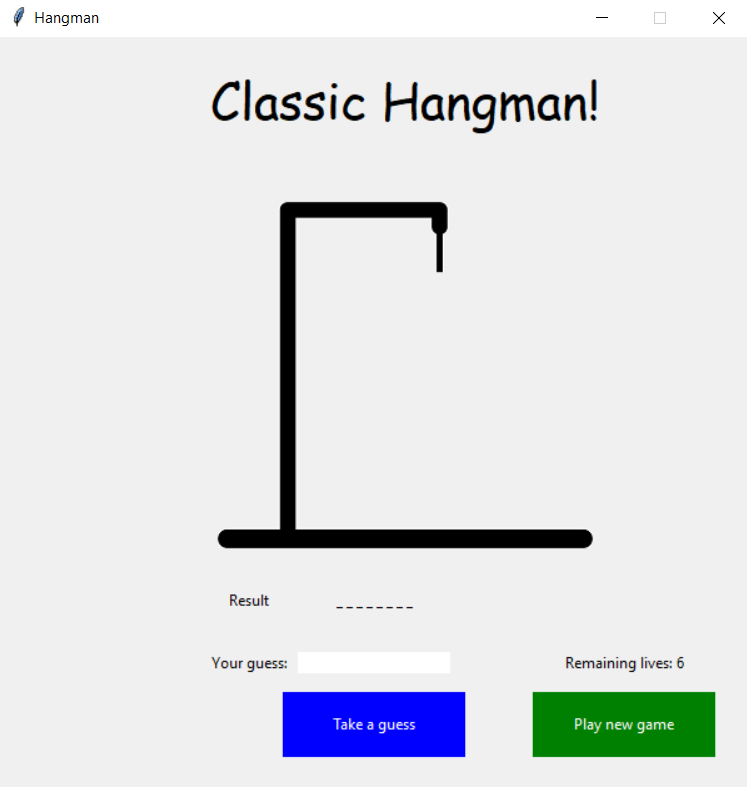
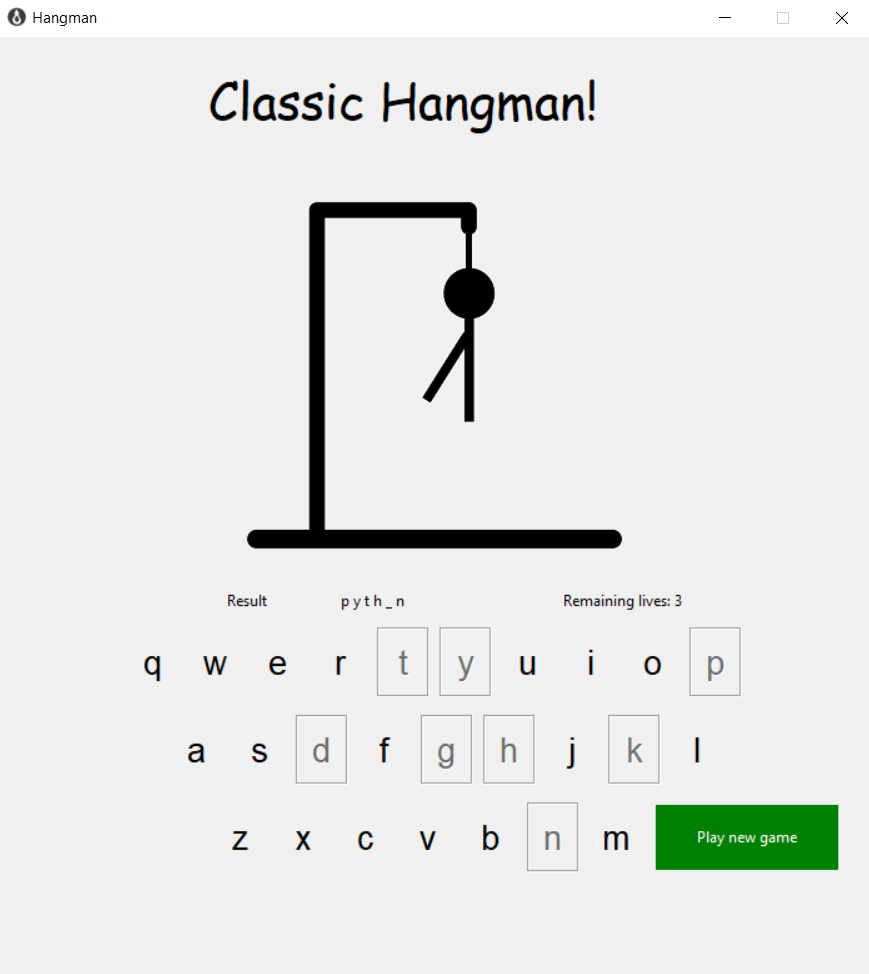
Revamp of the game. Added qwerty keyboard and some nice effects.

diff --git a/game_window.py b/game_window.py
@@ -1,44 +1,94 @@
 import tkinter
-from tkinter import Tk, Button, Entry, Label
+from tkinter import Button, Entry, Label
 from canvas import root, frame
-from functions import guess_letter, get_word, clean_screen
+from functions import guess_letter, get_word, clean_screen, dashes_draw
 from PIL import ImageTk
 from PIL import Image
 
 
+# Function to disable buttons if already used
+def button_disabling(input_letter=None):
+    if input_letter:
+        for button in buttons:
+            if input_letter == button['text']:
+                button.config(state='disabled', relief='groove')
+                break
+    else:
+        for button in buttons:
+            for i in range(len(dashes)):
+                if button['text'] == dashes[i]:
+                    button.config(state='disabled', relief='groove')
+
+
+# Function to render the main screen of the game
 def render_main():
     frame.create_text(325, 50, text='Classic Hangman!', font=('Comic Sans MS', 30))
-
-    frame.create_window(300, 550, window=guess_button)  # Ready
-    frame.create_window(500, 550, window=replay_button)  # Ready
-
+    frame.create_window(600, 640, window=replay_button)
     frame.create_window(300, 450, window=label_word)
-    frame.create_window(500, 500, window=remaining_lives_label)
-    frame.create_window(300, 500, window=guess_entry)
-    frame.create_text(200, 500, text='Your guess:')
+    frame.create_window(500, 450, window=remaining_lives_label)
     frame.create_window(200, 450, window=result_label)
-    frame.create_window(325, 270, window=image_label)
+    frame.create_window(350, 270, window=image_label)
+
+    # Keyboard
+    x, y = 125, 500
+    x_row_two = 160
+    x_row_three = 195
+    step_x, step_y = 50, 70
+    # Row 1
+    frame.create_window(x, y, window=button_q)
+    frame.create_window(x+step_x, y, window=button_w)
+    frame.create_window(x+step_x*2, y, window=button_e)
+    frame.create_window(x+step_x*3, y, window=button_r)
+    frame.create_window(x+step_x*4, y, window=button_t)
+    frame.create_window(x+step_x*5, y, window=button_y)
+    frame.create_window(x+step_x*6, y, window=button_u)
+    frame.create_window(x+step_x*7, y, window=button_i)
+    frame.create_window(x+step_x*8, y, window=button_o)
+    frame.create_window(x+step_x*9, y, window=button_p)
+    # Row 2
+    frame.create_window(x_row_two, y+step_y, window=button_a)
+    frame.create_window(x_row_two+step_x, y+step_y, window=button_s)
+    frame.create_window(x_row_two+step_x*2, y+step_y, window=button_d)
+    frame.create_window(x_row_two+step_x*3, y+step_y, window=button_f)
+    frame.create_window(x_row_two+step_x*4, y+step_y, window=button_g)
+    frame.create_window(x_row_two+step_x*5, y+step_y, window=button_h)
+    frame.create_window(x_row_two+step_x*6, y+step_y, window=button_j)
+    frame.create_window(x_row_two+step_x*7, y+step_y, window=button_k)
+    frame.create_window(x_row_two+step_x*8, y+step_y, window=button_l)
+    # Row 3
+    frame.create_window(x_row_three, y+step_y*2, window=button_z)
+    frame.create_window(x_row_three+step_x, y+step_y*2, window=button_x)
+    frame.create_window(x_row_three+step_x*2, y+step_y*2, window=button_c)
+    frame.create_window(x_row_three+step_x*3, y+step_y*2, window=button_v)
+    frame.create_window(x_row_three+step_x*4, y+step_y*2, window=button_b)
+    frame.create_window(x_row_three+step_x*5, y+step_y*2, window=button_n)
+    frame.create_window(x_row_three+step_x*6, y+step_y*2, window=button_m)
 
 
-def handle_guess(event=1):
+# Function to handle the guessing
+def handle_guess(letter):
     global lives_left
     global won_flag
-    guess = guess_entry.get().lower()
-    guess_entry.delete(0, tkinter.END)
-    result = guess_letter(guess, word, dashes)
+    global label_word
+    global dashes
+    global false_guesses
+
+    result = guess_letter(letter, word, dashes)
     if lives_left == 0 or won_flag:
         pass
     else:
         if result:
             label_word.config(text=' '.join(result))
+            dashes = result
             if '_' not in result:
-                remaining_lives_label.config(text='YOU WON!')
-                guess_button.config(state='disabled')
+                remaining_lives_label.config(text='YOU WON!', fg='green')
                 won_flag = True
 
         else:
             lives_left -= 1
-            remaining_lives_label.config(text='Remaining lives: {}'.format(lives_left))
+            remaining_lives_label.config(text=f'Remaining lives: {lives_left}')
+            false_guesses.append(letter)
+            button_disabling(letter)
             if lives_left == 5:
                 image_label.config(image=five_hp_image)
             elif lives_left == 4:
@@ -52,10 +102,11 @@ def handle_guess(event=1):
             if lives_left == 0:
                 label_word.config(text=word)
                 remaining_lives_label.config(text="YOU LOSE!", fg='red')
-                guess_button.config(state='disabled')
                 image_label.config(image=dead_image)
+    button_disabling()
 
 
+# Function to handle the new game button
 def new_game():
     global lives_left
     global word
@@ -65,55 +116,28 @@ def new_game():
     global image_label
     global label_word
     global won_flag
+    global false_guesses
     clean_screen()
     word = get_word()
     lives_left = 6
-    dashes = ['_'] * len(word)
+    false_guesses = []
+    for letter_button in buttons:
+        letter_button.config(state='normal', relief='flat')
+    dashes = dashes_draw(word)
+    label_word.config(text=' '.join(dashes))
+    button_disabling()
     guess_entry.delete(0, tkinter.END)
     won_flag = False
-    remaining_lives_label = Label(text='Remaining lives: {}'.format(lives_left))
+    remaining_lives_label = Label(text=f'Remaining lives: {lives_left}')
     result_label = Label(text='Result')
     image_label = tkinter.Label(image=full_hp_image)
     label_word = Label(text=' '.join(dashes))
-    guess_button.config(state='normal')
 
     render_main()
 
 
-root.bind('<Return>', handle_guess)
-
-
-word = get_word()
-lives_left = 6
-dashes = ['_'] * len(word)
-remaining_lives_label = Label(text='Remaining lives: {}'.format(lives_left))
-result_label = Label(text='Result')
-won_flag = False
-
-guess_button = Button(
-    root,
-    text='Take a guess',
-    bg='blue',
-    fg='white',
-    borderwidth=0,
-    width=20,
-    height=3,
-    command=handle_guess,
-)
-
-replay_button = Button(
-    root,
-    text='Play new game',
-    bg='green',
-    fg='white',
-    borderwidth=0,
-    width=20,
-    height=3,
-    command=new_game,
-)
-
-
-full_hp_image = ImageTk.PhotoImage(Image.open('images/full_hp.png'))
+# Images loading
+full_hp_image = ImageTk.PhotoImage(Image.open('images/full_hp.jpg'))
 dead_image = ImageTk.PhotoImage(Image.open('images/dead.jpg'))
 one_hp_image = ImageTk.PhotoImage(Image.open('images/1_hp.jpg'))
 two_hp_image = ImageTk.PhotoImage(Image.open('images/2_hp.jpg'))
@@ -121,8 +145,49 @@ three_hp_image = ImageTk.PhotoImage(Image.open('images/3_hp.jpg'))
 four_hp_image = ImageTk.PhotoImage(Image.open('images/4_hp.jpg'))
 five_hp_image = ImageTk.PhotoImage(Image.open('images/5_hp.jpg'))
 
-image_label = tkinter.Label(image=full_hp_image)
+# keyboard buttons creation
+button_a = Button(root, text='a', font=('Arial', 20), width=2, command=lambda x='a': handle_guess(x))
+button_b = Button(root, text='b', font=('Arial', 20), width=2, command=lambda x='b': handle_guess(x))
+button_c = Button(root, text='c', font=('Arial', 20), width=2, command=lambda x='c': handle_guess(x))
+button_d = Button(root, text='d', font=('Arial', 20), width=2, command=lambda x='d': handle_guess(x))
+button_e = Button(root, text='e', font=('Arial', 20), width=2, command=lambda x='e': handle_guess(x))
+button_f = Button(root, text='f', font=('Arial', 20), width=2, command=lambda x='f': handle_guess(x))
+button_g = Button(root, text='g', font=('Arial', 20), width=2, command=lambda x='g': handle_guess(x))
+button_h = Button(root, text='h', font=('Arial', 20), width=2, command=lambda x='h': handle_guess(x))
+button_i = Button(root, text='i', font=('Arial', 20), width=2, command=lambda x='i': handle_guess(x))
+button_j = Button(root, text='j', font=('Arial', 20), width=2, command=lambda x='j': handle_guess(x))
+button_k = Button(root, text='k', font=('Arial', 20), width=2, command=lambda x='k': handle_guess(x))
+button_l = Button(root, text='l', font=('Arial', 20), width=2, command=lambda x='l': handle_guess(x))
+button_m = Button(root, text='m', font=('Arial', 20), width=2, command=lambda x='m': handle_guess(x))
+button_n = Button(root, text='n', font=('Arial', 20), width=2, command=lambda x='n': handle_guess(x))
+button_o = Button(root, text='o', font=('Arial', 20), width=2, command=lambda x='o': handle_guess(x))
+button_p = Button(root, text='p', font=('Arial', 20), width=2, command=lambda x='p': handle_guess(x))
+button_q = Button(root, text='q', font=('Arial', 20), width=2, command=lambda x='q': handle_guess(x))
+button_r = Button(root, text='r', font=('Arial', 20), width=2, command=lambda x='r': handle_guess(x))
+button_s = Button(root, text='s', font=('Arial', 20), width=2, command=lambda x='s': handle_guess(x))
+button_t = Button(root, text='t', font=('Arial', 20), width=2, command=lambda x='t': handle_guess(x))
+button_u = Button(root, text='u', font=('Arial', 20), width=2, command=lambda x='u': handle_guess(x))
+button_v = Button(root, text='v', font=('Arial', 20), width=2, command=lambda x='v': handle_guess(x))
+button_w = Button(root, text='w', font=('Arial', 20), width=2, command=lambda x='w': handle_guess(x))
+button_x = Button(root, text='x', font=('Arial', 20), width=2, command=lambda x='x': handle_guess(x))
+button_y = Button(root, text='y', font=('Arial', 20), width=2, command=lambda x='y': handle_guess(x))
+button_z = Button(root, text='z', font=('Arial', 20), width=2, command=lambda x='z': handle_guess(x))
 
-guess_button.config(command=handle_guess)
+
+# Variables
+buttons = [button_a, button_b, button_c, button_d, button_e, button_f, button_g, button_h, button_i,
+           button_j, button_k, button_l, button_m, button_n, button_o, button_p, button_q, button_r,
+           button_s, button_t, button_u, button_v, button_w, button_x, button_y, button_z]
+
+false_guesses = []
+lives_left = 6
+won_flag = False
+remaining_lives_label = Label(text=f'Remaining lives: {lives_left}')
+replay_button = Button(root, text='Play new game', bg='green', fg='white', borderwidth=0, width=20, height=3, command=new_game,)
+result_label = Label(text='Result')
+image_label = tkinter.Label(image=full_hp_image)
+word = get_word()
+dashes = dashes_draw(word)
+button_disabling()
 label_word = Label(text=' '.join(dashes))
 guess_entry = Entry(root, bd=0)

diff --git a/functions.py b/functions.py
@@ -2,28 +2,47 @@ from canvas import frame
 import random
 
 
+# Function to help clean the screen
 def clean_screen():
     frame.delete('all')
 
 
+# Function to check for the guessed letter
 def guess_letter(letter, words_in, dash):
-    if letter == words_in:
-        return letter
+    dash_list = list(dash)
     if letter in words_in:
         for i in range(len(words_in)):
-            if words_in[i] == letter:
-                dash[i] = letter
+            if words_in[i] == letter and letter not in dash:
+                dash_list[i] = letter
+        dash = ''.join(dash_list)
         return dash
     else:
         return False
 
 
+# Loading the database with words
 word_list = []
-
 with open('db/words.txt', 'r') as file:
     for line in file:
         word_list.append(line[:-1])
 
 
+# Function to pick a random word
 def get_word():
     return random.choice(word_list)
+
+
+# Function to draw the necessary dashes
+def dashes_draw(word):
+    first_letter = word[0]
+    last_letter = word[-1]
+    result = ''
+    for i in range(len(word)):
+        if i == 0:
+            result = first_letter
+        elif i == len(word)-1:
+            result += last_letter
+        else:
+            result += '_'
+
+    return result

diff --git a/canvas.py b/canvas.py
@@ -1,17 +1,20 @@
 from tkinter import Tk, Canvas
 
 
+# Function to create the main root of the game
 def create_root():
     root = Tk()
 
     root.title('Hangman')
-    root.geometry('600x600')
+    root.geometry(f'{700}x{750}')
     root.resizable(False, False)
-    root.configure(bg='white')
+    root.configure(bg='#F0F0F0')
+    root.iconbitmap('images/hangman_icon.ico')
 
     return root
 
 
+# Function that return a frame
 def create_frame():
     frame = Canvas(root, width=700, height=700)
     frame.grid(row=0, column=0)

diff --git a/r.tsepenishev_L10_T2.py b/r.tsepenishev_L10_T2.py
@@ -2,6 +2,7 @@ from canvas import root
 from game_window import render_main
 
 
+# Running the game
 if __name__ == '__main__':
 
     render_main()

diff --git a/README.md b/README.md
@@ -1,7 +1,7 @@
 # Hangman
 
 This is the classic Hangman game
-It has a database with word in: \db\words.txt (You can add new words freely)
+It has a database with words in: \db\words.txt (You can add new words freely)
 
 The game window provides you with animated hangman, result, remaining lives, letter guess field, guess button as well as new game button.
 To run it just execute the 'main.py' file.
